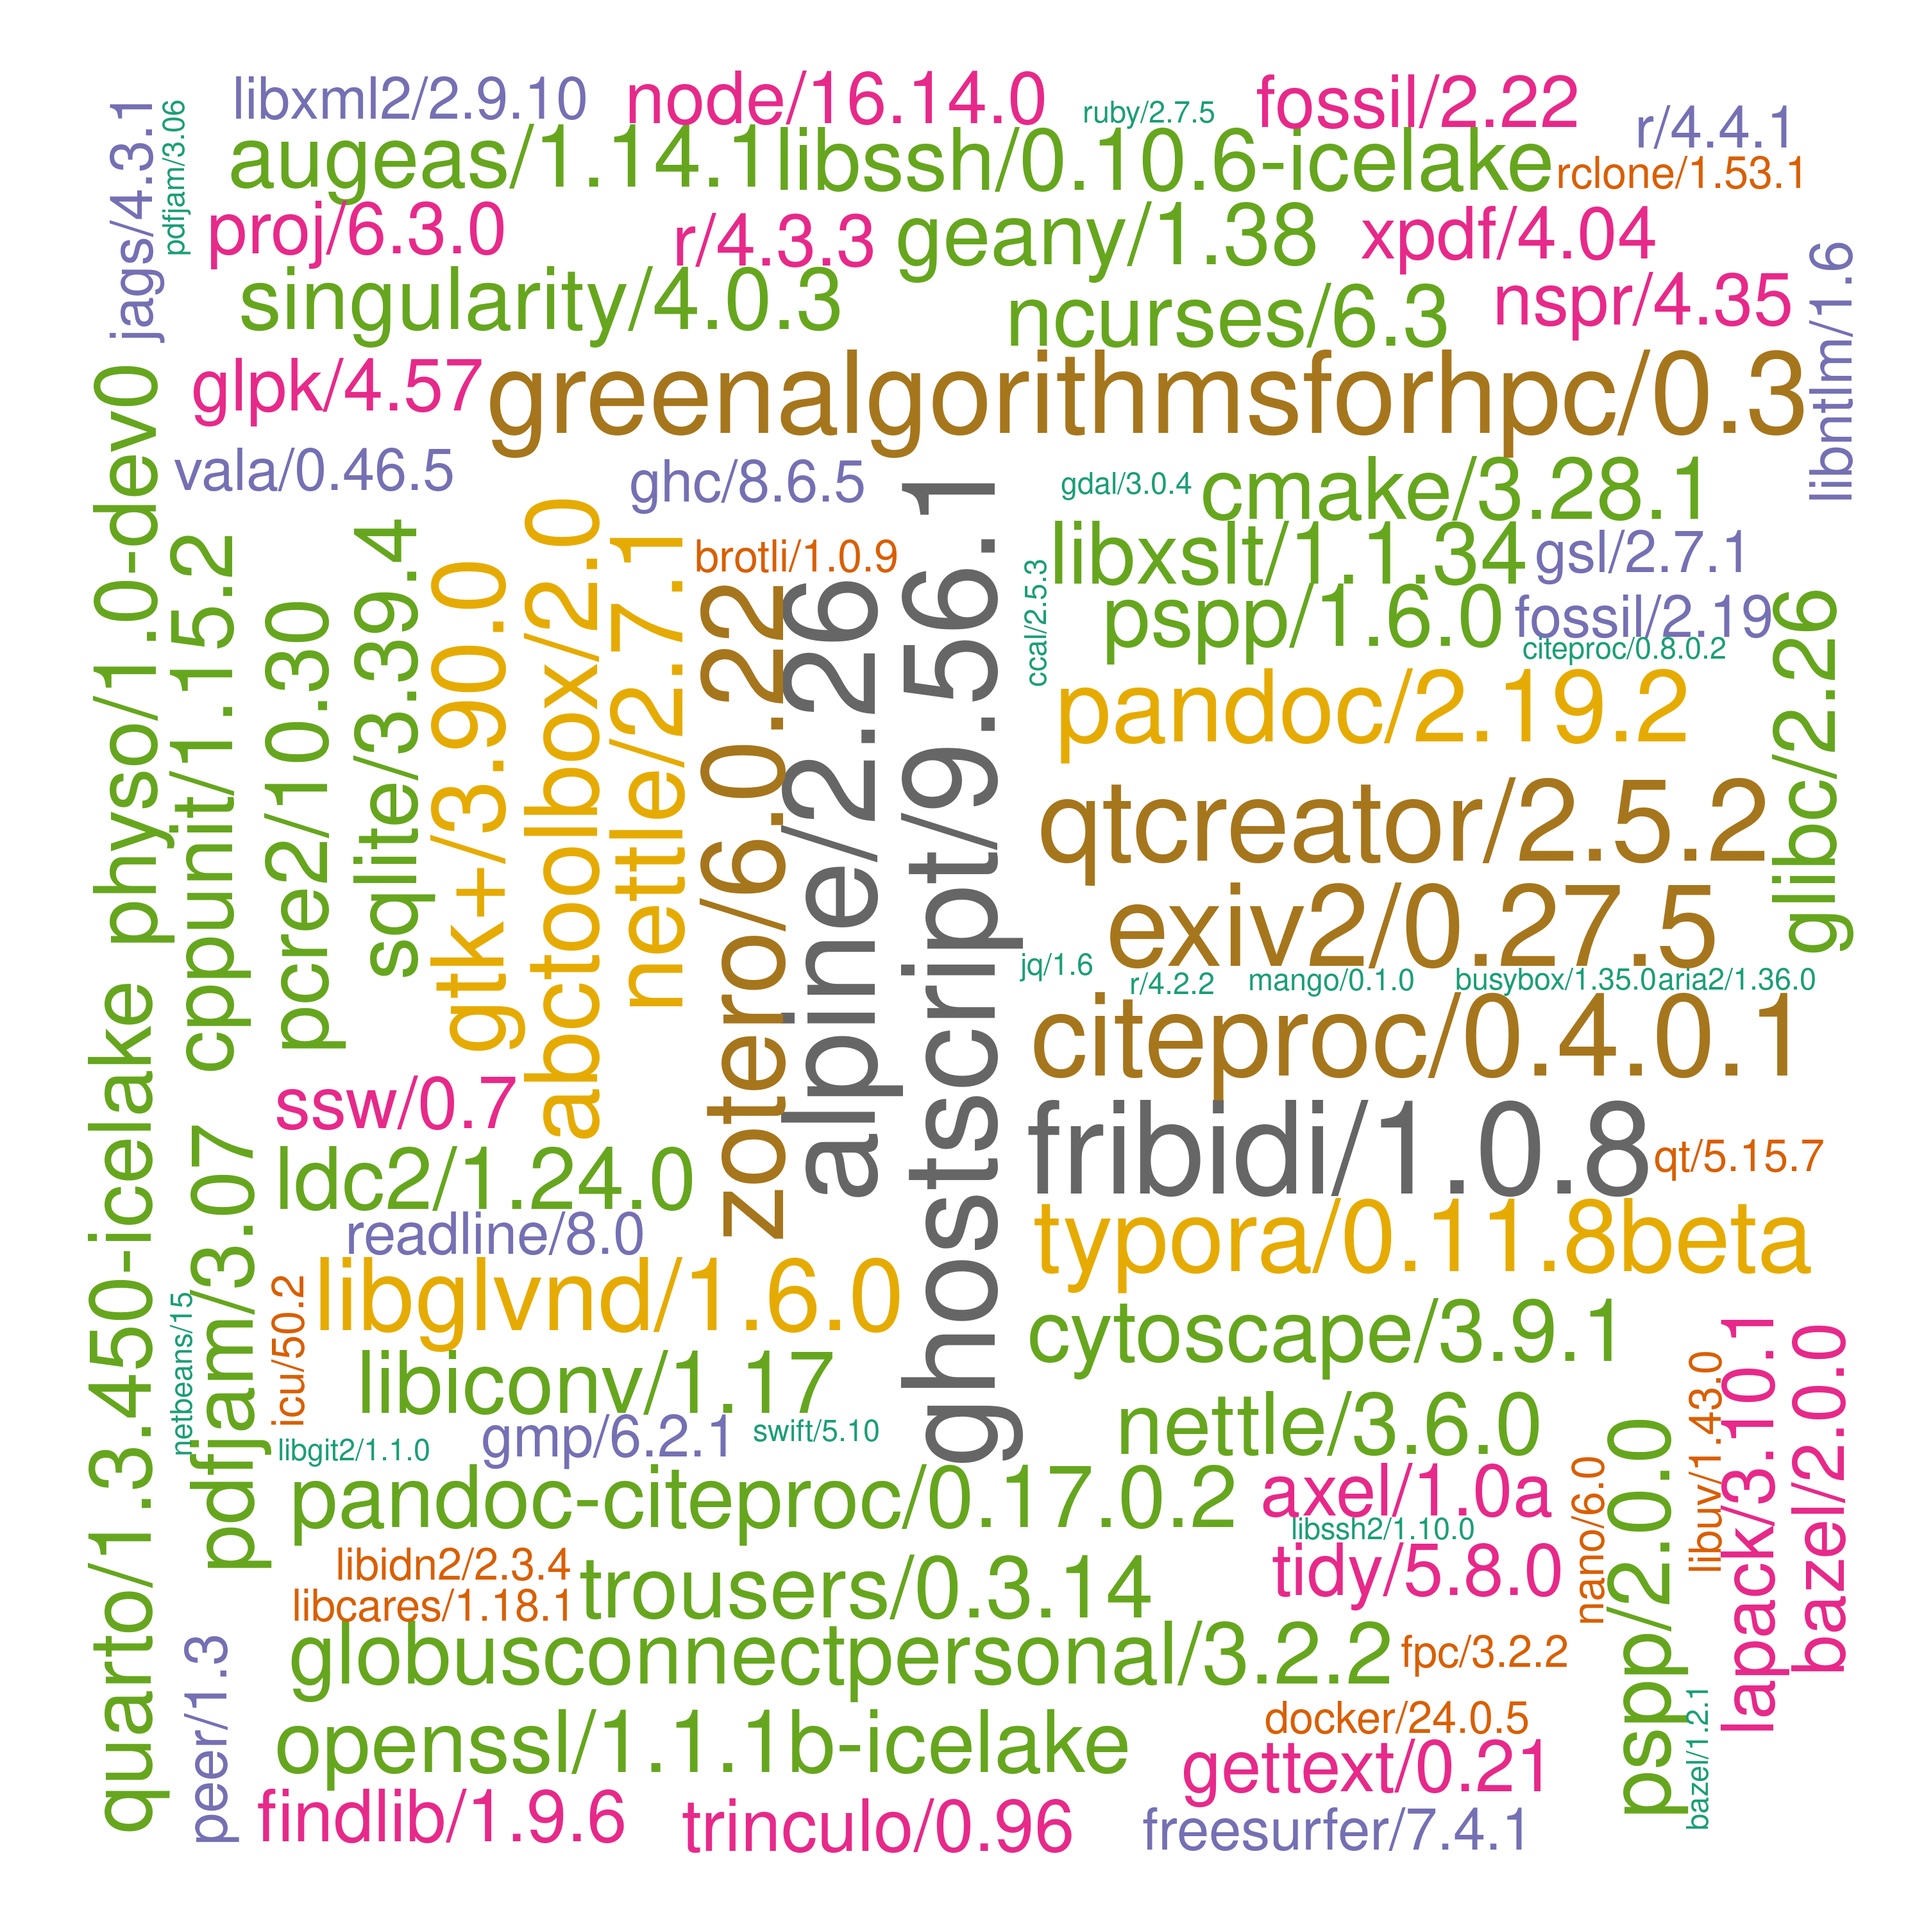
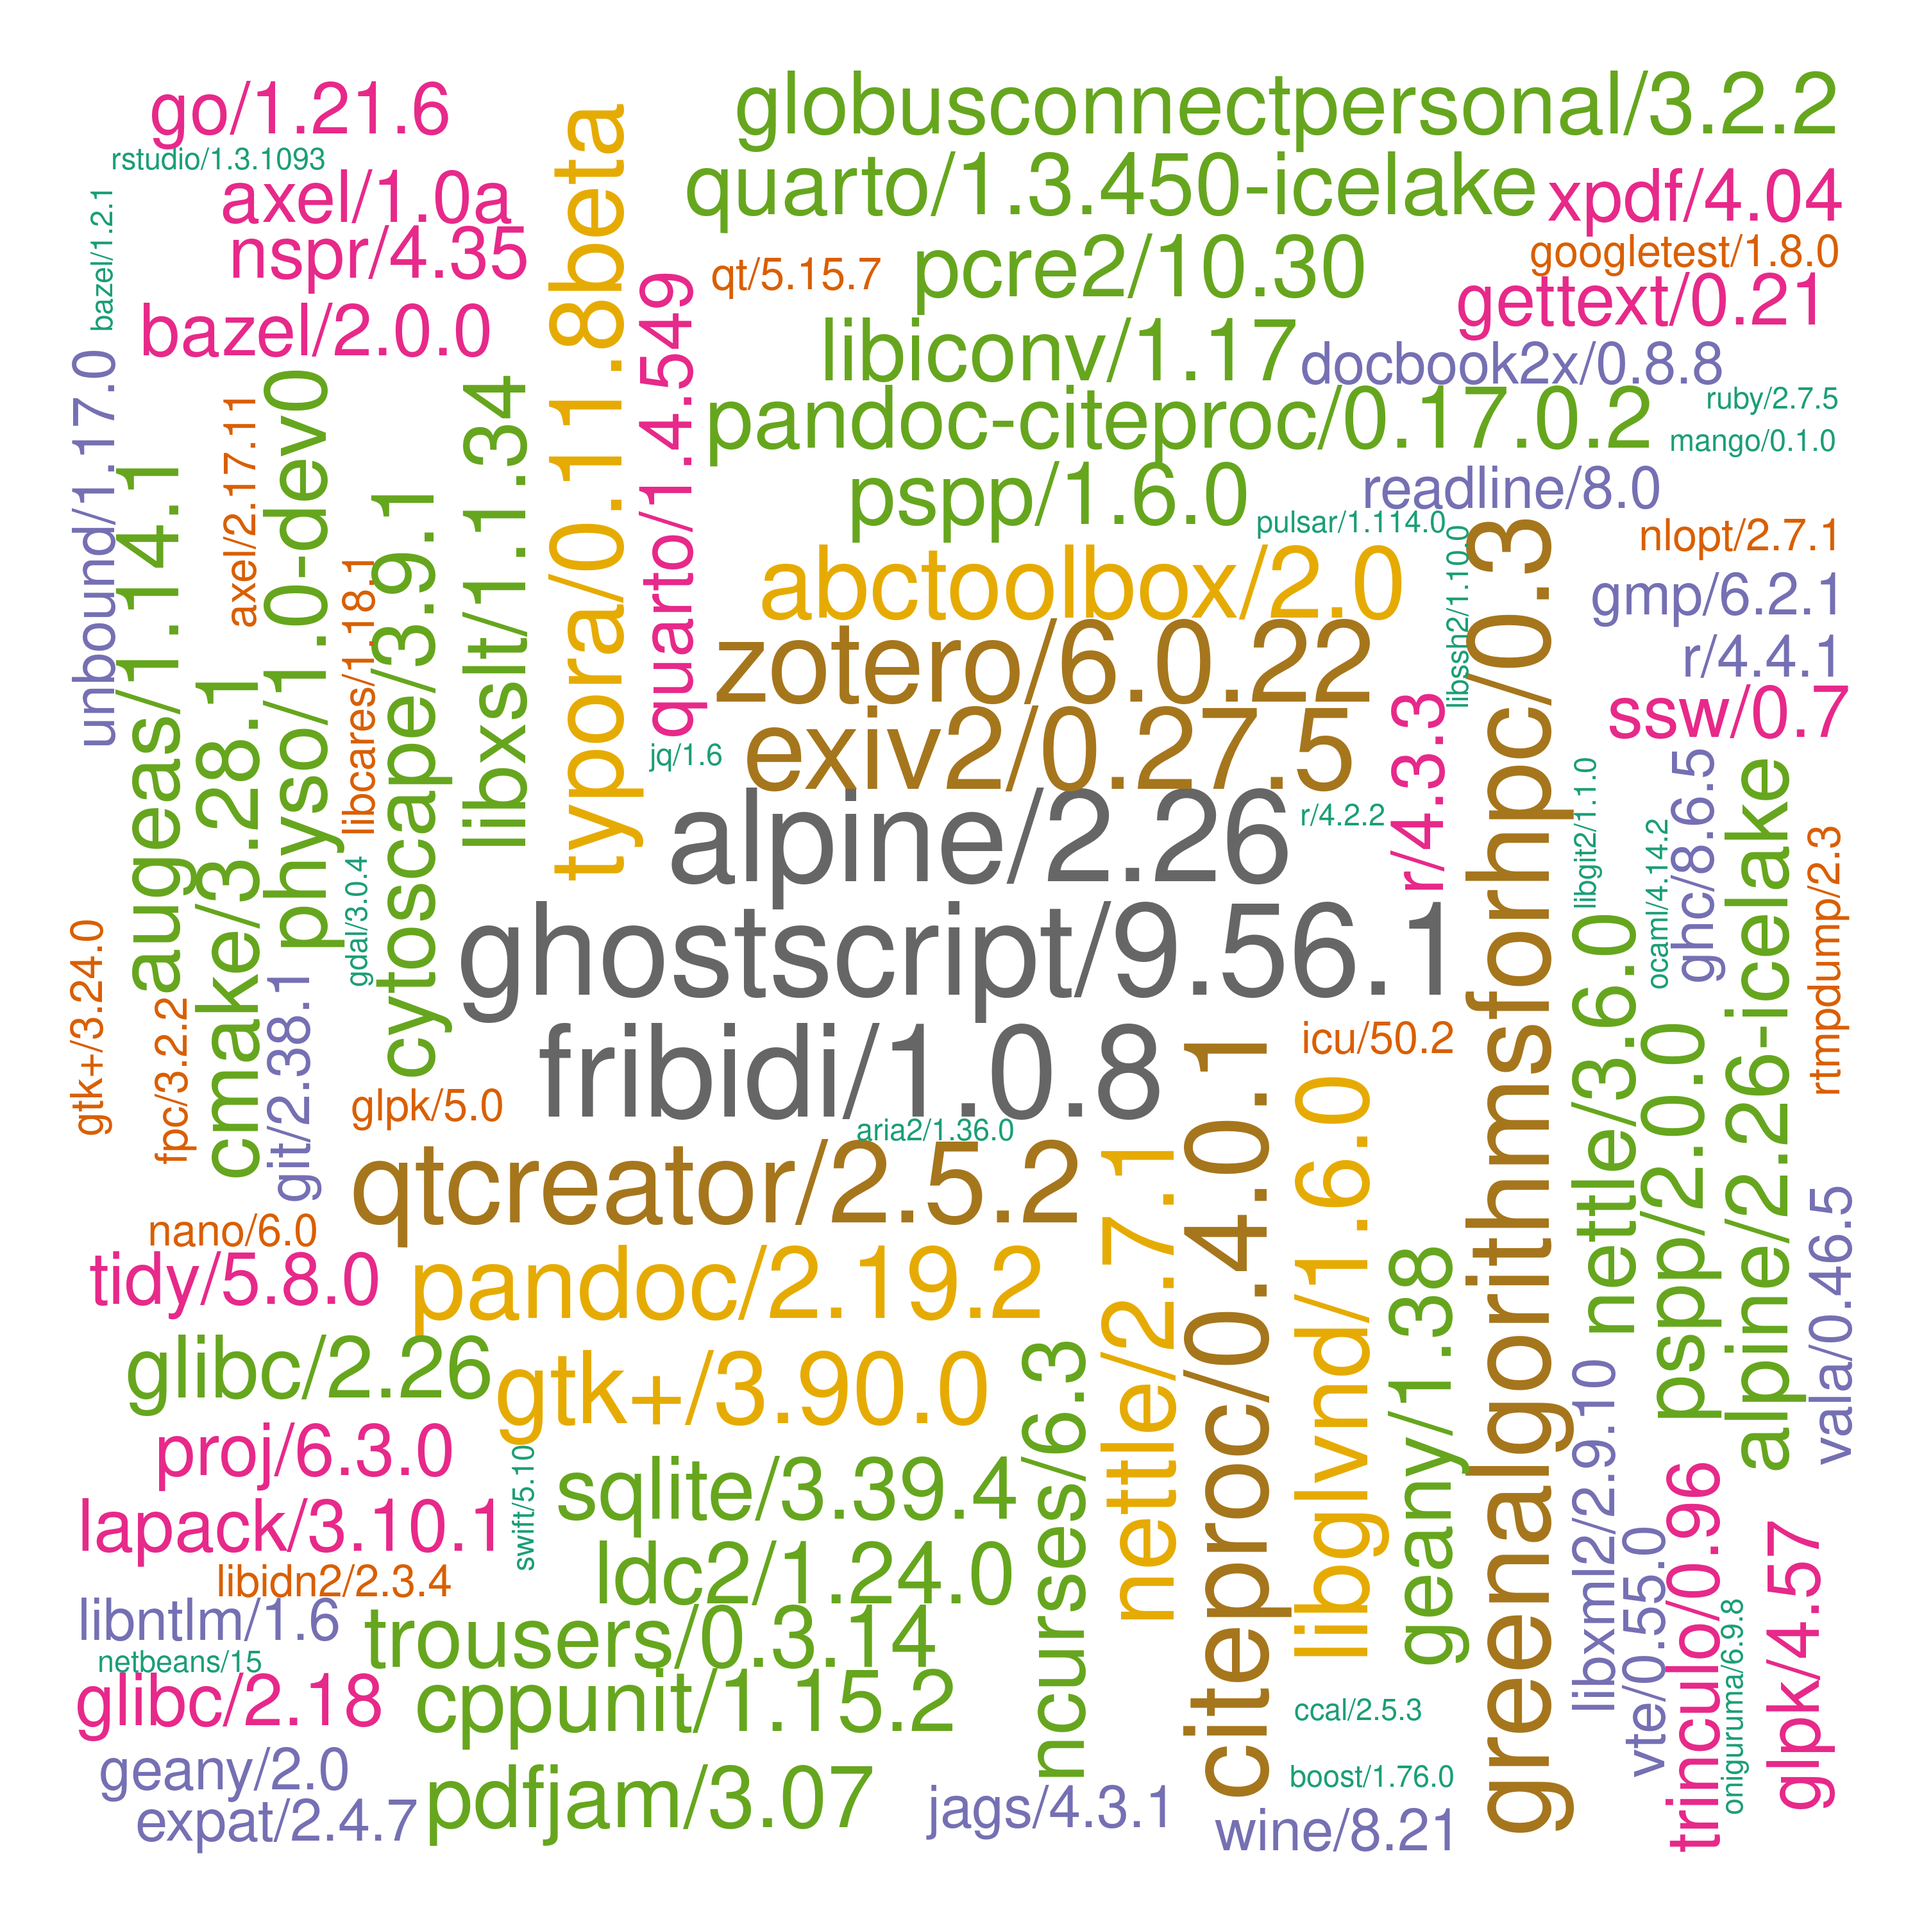
./

diff --git a/systems/ceuadmin.md b/systems/ceuadmin.md
@@ -48,38 +48,39 @@ The current list is as follows,
 [113] "LEMMA"                 "libcares"              "libgit2"               "libglvnd"
 [117] "libiconv"              "libidn2"               "libntlm"               "libpng"
 [121] "libseccomp"            "libsodium"             "libssh"                "libssh2"
-[125] "libuv"                 "libxml2"               "libxslt"               "locuszoom"
-[129] "LVM2"                  "MAGENTA"               "magma"                 "Mango"
-[133] "Mega2"                 "metal"                 "MetaMorpheus"          "MONSTER"
-[137] "MORGAN"                "MR-MEGA"               "msamanda"              "MsCAVIAR"
-[141] "msms"                  "nano"                  "ncbi-vdb"              "ncurses"
-[145] "netbeans"              "nettle"                "nextflow"              "nlopt"
-[149] "NLopt"                 "node"                  "nspr"                  "ntlm"
-[153] "ocaml"                 "oniguruma"             "opam"                  "openjdk"
-[157] "OpenMS"                "openssh"               "openssl"               "osca"
-[161] "p7zip-zstd"            "PAINTOR"               "pandoc"                "pandoc-citeproc"
-[165] "pango"                 "parallel"              "Pascal"                "patchelf"
-[169] "pcre2"                 "pdf2djvu"              "pdfjam"                "peer"
-[173] "pgsc_calc"             "phenoscanner"          "PhySO"                 "picard"
-[177] "plink"                 "plink-bgi"             "plinkseq"              "podman"
-[181] "PoGo"                  "polyphen"              "poppler"               "popt"
-[185] "proj"                  "PRSice"                "pspp"                  "pulsar"
-[189] "PWCoCo"                "pwiz"                  "qctool"                "qemu"
-[193] "qpdf"                  "qt"                    "qtcreator"             "QTLtools"
-[197] "quarto"                "quicktest"             "R"                     "raremetal"
-[201] "rclone"                "readline"              "regenie"               "regtools"
-[205] "RHHsoftware"           "rst2pdf"               "rstudio"               "rtmpdump"
-[209] "ruby"                  "rust"                  "samtools"              "Scala"
-[213] "seqkit"                "shapeit"               "singularity"           "SMR"
-[217] "snakemake"             "SNP2HLA"               "snptest"               "spread-sheet-widget"
-[221] "spyder"                "sqlite"                "sra-tools"             "sshpass"
-[225] "ssw"                   "STAR"                  "stata"                 "SurvivalAnalysis"
-[229] "SurvivalKit"           "Swift"                 "tabix"                 "tatami"
-[233] "thunderbird"           "tidy"                  "trinculo"              "trousers"
-[237] "Typora"                "unbound"               "vala"                  "VarScan"
-[241] "vcftools"              "VEGAS2"                "verifyBamID"           "VSCode"
-[245] "VSCodium"              "vte"                   "wine"                  "xpdf"
-[249] "yaml-cpp"              "Zotero"                "zstd"
+[125] "libuv"                 "libxml2"               "libxslt"               "linux"
+[129] "locuszoom"             "LVM2"                  "MAGENTA"               "magma"
+[133] "Mango"                 "Mega2"                 "metal"                 "MetaMorpheus"
+[137] "Miniconda3"            "MONSTER"               "MORGAN"                "MR-MEGA"
+[141] "msamanda"              "MsCAVIAR"              "msms"                  "nano"
+[145] "ncbi-vdb"              "ncurses"               "netbeans"              "nettle"
+[149] "nextflow"              "nlopt"                 "NLopt"                 "node"
+[153] "nspr"                  "ntlm"                  "ocaml"                 "oniguruma"
+[157] "opam"                  "openjdk"               "OpenMS"                "openssh"
+[161] "openssl"               "osca"                  "p7zip-zstd"            "PAINTOR"
+[165] "pandoc"                "pandoc-citeproc"       "pango"                 "parallel"
+[169] "Pascal"                "patchelf"              "pcre2"                 "pdf2djvu"
+[173] "pdfjam"                "peer"                  "pgsc_calc"             "phenoscanner"
+[177] "PhySO"                 "picard"                "pigz"                  "plink"
+[181] "plink-bgi"             "plinkseq"              "podman"                "PoGo"
+[185] "polyphen"              "poppler"               "popt"                  "proj"
+[189] "PRSice"                "pspp"                  "pulsar"                "PWCoCo"
+[193] "pwiz"                  "qctool"                "qemu"                  "qpdf"
+[197] "qt"                    "qtcreator"             "QTLtools"              "quarto"
+[201] "quicktest"             "R"                     "raremetal"             "rclone"
+[205] "readline"              "regenie"               "regtools"              "RHHsoftware"
+[209] "rst2pdf"               "rstudio"               "rtmpdump"              "ruby"
+[213] "rust"                  "samtools"              "Scala"                 "seqkit"
+[217] "shapeit"               "singularity"           "SMR"                   "snakemake"
+[221] "SNP2HLA"               "snptest"               "spread-sheet-widget"   "spyder"
+[225] "sqlite"                "sra-tools"             "sshpass"               "ssw"
+[229] "STAR"                  "stata"                 "SurvivalAnalysis"      "SurvivalKit"
+[233] "Swift"                 "tabix"                 "tandem"                "tatami"
+[237] "thunderbird"           "tidy"                  "trinculo"              "trousers"
+[241] "Typora"                "unbound"               "vala"                  "VarScan"
+[245] "vcftools"              "VEGAS2"                "verifyBamID"           "VSCode"
+[249] "VSCodium"              "vte"                   "wine"                  "xpdf"
+[253] "yaml-cpp"              "Zotero"                "zstd"
 ```
 
 These are wrapped up as :star::star::star: **[modules](https://modules.readthedocs.io/en/latest/index.html)** :star::star::star:.
@@ -337,6 +338,7 @@ Further information is avaiiable from **/usr/local/Cluster-Apps/ceuadmin/doc/ceu
     | ""         | MetaMorpheus/1.0.5          | Proteomics          |
     | 2024-06-25 | msms/3.2rc-b163             | Genetics            |
     | 2024-07-13 | msamanda/3.0.21.532         | Proteomics          |
+    | 2024-07-31 | tandem/2017.2.1.4           | Proteomics          |
 
     \* CEU or approved users only.
 
